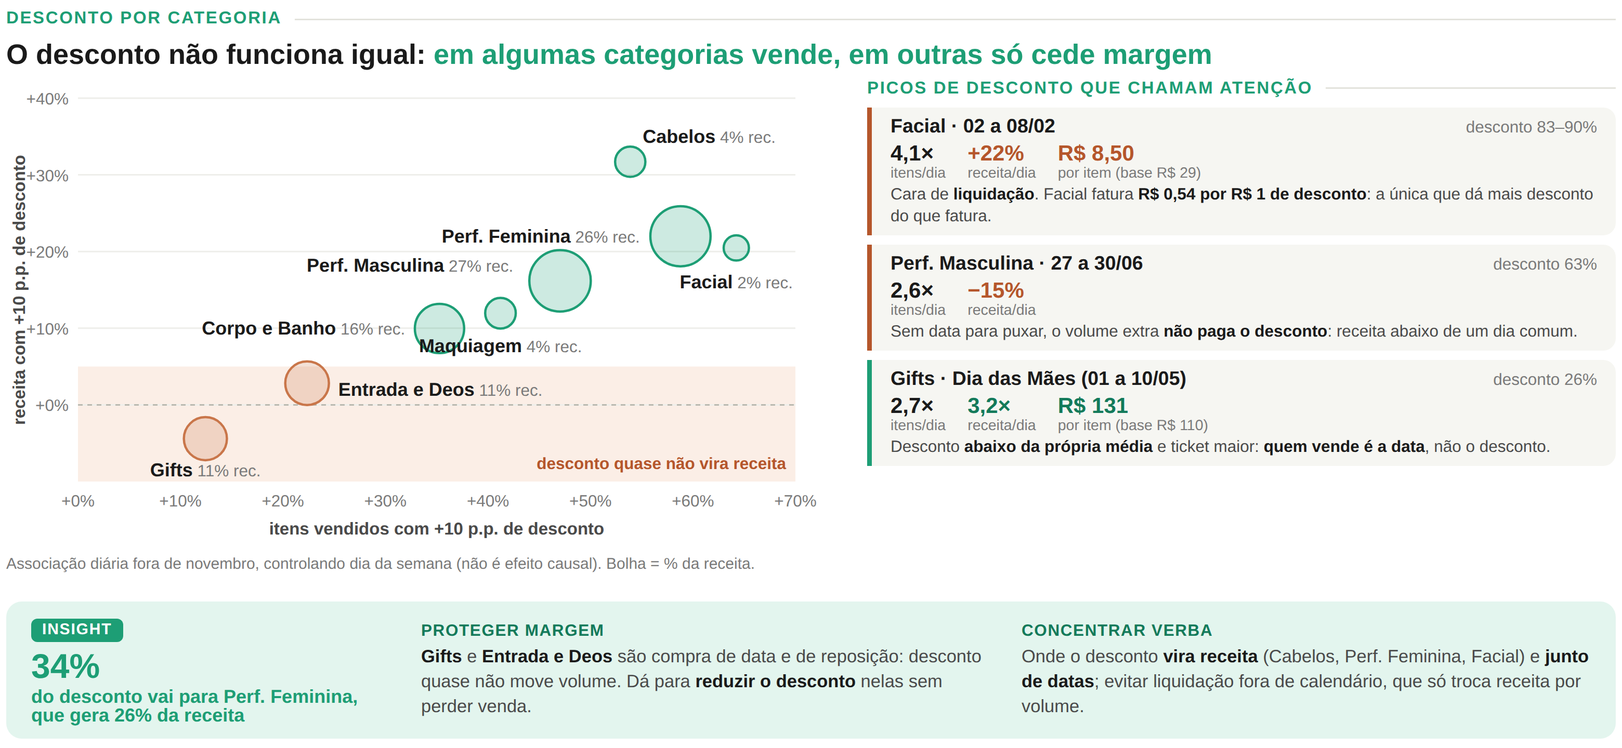
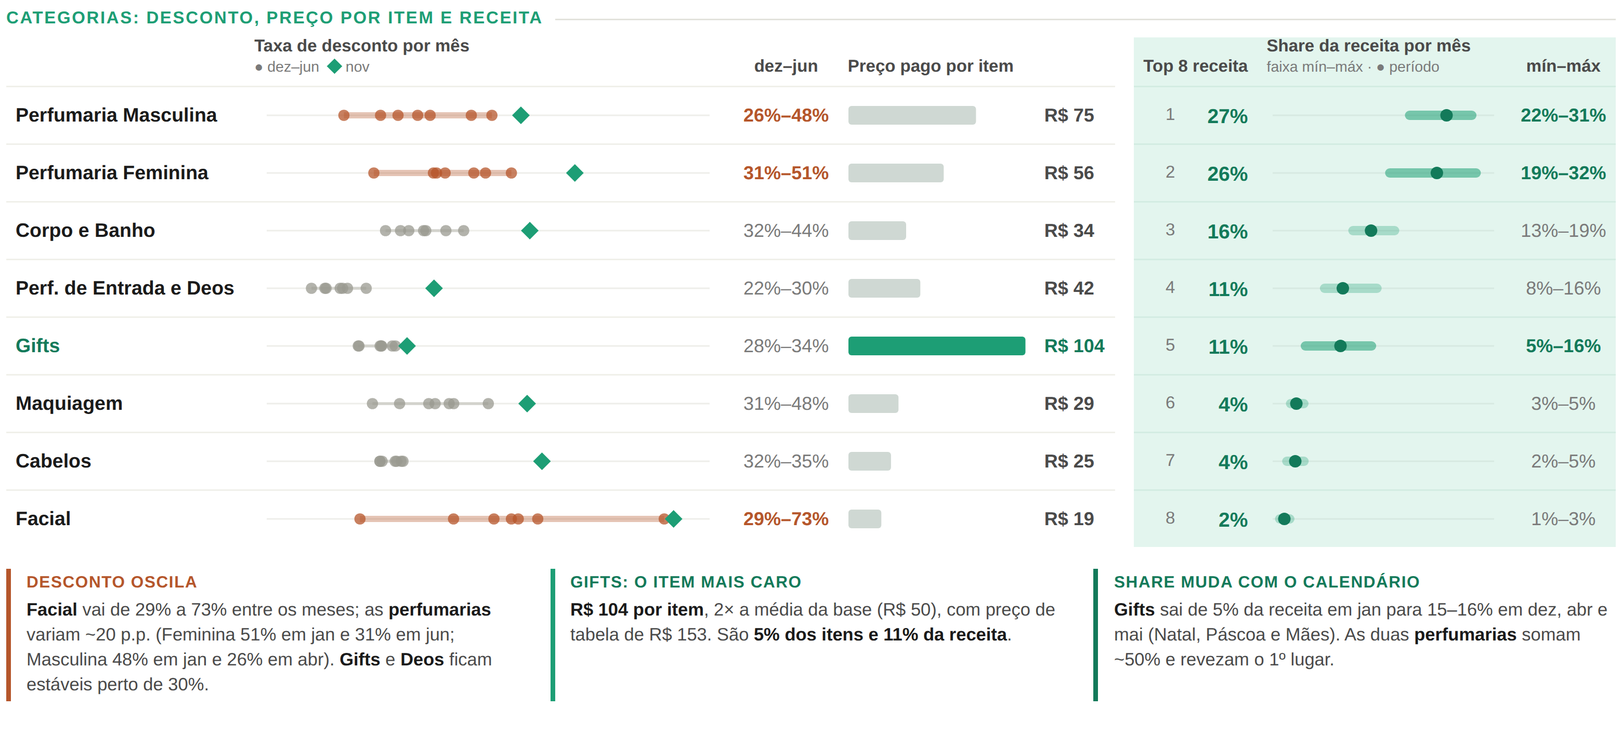
Widget de categorias descritivo: desconto mês a mês, preço por item e share da receita
Claude-Session: https://claude.ai/code/session_01NUJZKTcM8cs9QBTcUeuacF

diff --git a/apresentacao/widgets/04_categorias.html b/apresentacao/widgets/04_categorias.html
@@ -2,7 +2,7 @@
 <html lang="pt-BR">
 <head>
 <meta charset="utf-8">
-<title>Desconto por categoria</title>
+<title>Categorias</title>
 <style>
   :root {
     --verde: #1d9e75; --verde-escuro: #137a5a; --verde-claro: #e3f5ee; --laranja: #b5562b;
@@ -11,82 +11,53 @@
   * { box-sizing: border-box; margin: 0; padding: 0; }
   body { width: 1040px; height: 480px; background: var(--fundo);
          font-family: Arial, "Helvetica Neue", Helvetica, sans-serif; color: var(--tinta); }
-  .widget { display: grid; grid-template-columns: 530px 1fr; grid-template-rows: auto 1fr auto; column-gap: 22px; height: 100%; padding: 6px 4px; }
+  .widget { height: 100%; padding: 6px 4px; display: flex; flex-direction: column; gap: 14px; }
   .rotulo { font-size: 11px; font-weight: 700; letter-spacing: .08em; text-transform: uppercase; color: var(--verde);
             margin-bottom: 6px; display: flex; align-items: center; gap: 8px; }
   .rotulo::after { content: ""; flex: 1; height: 1px; background: var(--linha); }
-  h3 { grid-column: 1 / -1; font-size: 18px; line-height: 1.25; margin-bottom: 4px; }
-  h3 span { color: var(--verde); }
-  .topo { grid-column: 1 / -1; }
-  svg text { font-family: Arial, sans-serif; }
-  .grade { stroke: #eeeeea; } .zero { stroke: #b9b9b0; stroke-dasharray: 3 3; }
-  .eixo { font-size: 10.5px; fill: var(--tinta-3); }
-  .tit-eixo { font-size: 11px; fill: var(--tinta-2); font-weight: 700; }
-  .nome { font-size: 12px; font-weight: 700; fill: var(--tinta); }
-  .sub { font-weight: 400; fill: var(--tinta-3); font-size: 10.5px; }
-  .zona { font-size: 10.5px; fill: var(--laranja); font-weight: 700; }
-  .nota { font-size: 10px; color: var(--tinta-3); margin-top: 2px; line-height: 1.3; }
 
-  .picos { display: flex; flex-direction: column; gap: 6px; }
-  .pico { border-left: 3px solid var(--verde); background: #f6f6f2; border-radius: 0 8px 8px 0; padding: 5px 12px; }
-  .pico.ruim { border-left-color: var(--laranja); }
-  .pico .cab { display: flex; justify-content: space-between; align-items: baseline; font-size: 12.5px; font-weight: 700; }
-  .pico .cab span { font-size: 10.5px; color: var(--tinta-3); font-weight: 400; }
-  .nums { display: flex; gap: 14px; margin: 2px 0 1px; }
-  .num { font-size: 14px; font-weight: 700; color: var(--tinta); }
-  .num small { display: block; font-size: 9.5px; color: var(--tinta-3); font-weight: 400; }
-  .num.bom { color: var(--verde-escuro); } .num.mau { color: var(--laranja); }
-  .pico p { font-size: 10.5px; color: var(--tinta-2); line-height: 1.35; }
-  .pico p b { color: var(--tinta); }
+  .cats { width: 100%; border-collapse: collapse; }
+  .cats th { font-size: 11px; font-weight: 700; color: var(--tinta-2); text-align: center; padding: 0 6px 6px; vertical-align: bottom; white-space: nowrap; }
+  .cats th.esq { text-align: left; }
+  .cats th span { display: block; font-size: 9.5px; font-weight: 400; color: var(--tinta-3); margin-top: 2px; }
+  .losango { display: inline-block; width: 7px; height: 7px; background: var(--verde); transform: rotate(45deg); margin: 0 1px; }
+  .cats td { padding: 5px 6px; border-top: 1px solid #f0f0ea; vertical-align: middle; }
+  .cats td svg { display: block; }
+  .nome { font-size: 12.5px; font-weight: 700; white-space: nowrap; }
+  .num { font-size: 12px; color: var(--tinta-3); text-align: center; white-space: nowrap; }
+  .faixa.forte { color: var(--laranja); font-weight: 700; }
+  .barra { display: flex; align-items: center; gap: 6px; font-size: 12px; color: var(--tinta-2); }
+  tr.gift .nome, tr.gift .barra b { color: var(--verde-escuro); }
+  .sep { width: 10px; border-top: none !important; }
+  .cats th.lado, .cats td.lado { background: var(--verde-claro); }
+  .cats td.lado { border-top: 1px solid #d3ece2; }
+  .rank { font-size: 11px; color: var(--tinta-3); text-align: right; width: 22px; padding-right: 0 !important; }
+  .share { font-size: 13px; font-weight: 700; color: var(--verde-escuro); text-align: right; width: 44px; }
+  .forte-s { color: var(--verde-escuro); font-weight: 700; }
+  .cats tr:first-child th.lado:first-of-type { border-radius: 8px 0 0 0; }
 
-  .insight { grid-column: 1 / -1; background: var(--verde-claro); border-radius: 10px; padding: 8px 16px; margin-top: 6px;
-             display: grid; grid-template-columns: 230px 1fr 1fr; gap: 20px; align-items: center; }
-  .selo { display: inline-block; font-size: 10px; font-weight: 700; letter-spacing: .06em; text-transform: uppercase;
-          color: #fff; background: var(--verde); border-radius: 4px; padding: 2px 7px; margin-bottom: 4px; }
-  .valor-g { font-size: 22px; font-weight: 700; color: var(--verde); line-height: 1.05; }
-  .valor-g small { display: block; font-size: 12px; margin-top: 2px; }
-  .texto { font-size: 11.5px; color: var(--tinta-2); line-height: 1.4; }
-  .texto b { color: var(--tinta); }
-  .texto .tit { display: block; font-size: 10.5px; font-weight: 700; color: var(--verde-escuro); text-transform: uppercase; letter-spacing: .05em; margin-bottom: 1px; }
+  .notas { display: grid; grid-template-columns: 1fr 1fr 1fr; gap: 14px; }
+  .nota { border-left: 3px solid var(--linha); padding: 2px 0 2px 10px; font-size: 11.5px; line-height: 1.4; color: var(--tinta-2); }
+  .nota b { color: var(--tinta); }
+  .nota .tit { display: block; font-size: 10.5px; font-weight: 700; text-transform: uppercase; letter-spacing: .05em; margin-bottom: 2px; }
+  .nota.d { border-color: var(--laranja); } .nota.d .tit { color: var(--laranja); }
+  .nota.p { border-color: var(--verde); } .nota.p .tit, .nota.s .tit { color: var(--verde-escuro); }
+  .nota.s { border-color: var(--verde-escuro); }
 </style>
 </head>
 <body>
 <div class="widget">
-  <div class="topo">
-    <div class="rotulo">Desconto por categoria</div>
-    <h3>O desconto não funciona igual: <span>em algumas categorias vende, em outras só cede margem</span></h3>
-  </div>
-
   <section>
-    <svg width="526" height="298" viewBox="0 0 526 298"><rect x="46" y="184.2" width="460" height="73.8" fill="#fbeee6"/><text x="500" y="250.0" text-anchor="end" class="zona">desconto quase não vira receita</text><line x1="46" x2="506" y1="208.8" y2="208.8" class="grade"/><text x="40" y="212.8" text-anchor="end" class="eixo">+0%</text><line x1="46" x2="506" y1="159.6" y2="159.6" class="grade"/><text x="40" y="163.6" text-anchor="end" class="eixo">+10%</text><line x1="46" x2="506" y1="110.4" y2="110.4" class="grade"/><text x="40" y="114.4" text-anchor="end" class="eixo">+20%</text><line x1="46" x2="506" y1="61.2" y2="61.2" class="grade"/><text x="40" y="65.2" text-anchor="end" class="eixo">+30%</text><line x1="46" x2="506" y1="12.0" y2="12.0" class="grade"/><text x="40" y="16.0" text-anchor="end" class="eixo">+40%</text><text x="46.0" y="274" text-anchor="middle" class="eixo">+0%</text><text x="111.7" y="274" text-anchor="middle" class="eixo">+10%</text><text x="177.4" y="274" text-anchor="middle" class="eixo">+20%</text><text x="243.1" y="274" text-anchor="middle" class="eixo">+30%</text><text x="308.9" y="274" text-anchor="middle" class="eixo">+40%</text><text x="374.6" y="274" text-anchor="middle" class="eixo">+50%</text><text x="440.3" y="274" text-anchor="middle" class="eixo">+60%</text><text x="506.0" y="274" text-anchor="middle" class="eixo">+70%</text><line x1="46" x2="506" y1="208.8" y2="208.8" class="zero"/><circle cx="355.1" cy="129.2" r="19.7" fill="#1d9e75" fill-opacity=".22" stroke="#1d9e75" stroke-width="1.5"/><text x="325.1" y="123.2" text-anchor="end" class="nome">Perf. Masculina<tspan class="sub"> 27% rec.</tspan></text><circle cx="432.3" cy="100.6" r="19.3" fill="#1d9e75" fill-opacity=".22" stroke="#1d9e75" stroke-width="1.5"/><text x="406.3" y="104.6" text-anchor="end" class="nome">Perf. Feminina<tspan class="sub"> 26% rec.</tspan></text><circle cx="277.8" cy="159.8" r="15.8" fill="#1d9e75" fill-opacity=".22" stroke="#1d9e75" stroke-width="1.5"/><text x="255.8" y="163.8" text-anchor="end" class="nome">Corpo e Banho<tspan class="sub"> 16% rec.</tspan></text><circle cx="192.9" cy="194.9" r="14.0" fill="#c9764a" fill-opacity=".22" stroke="#c9764a" stroke-width="1.5"/><text x="212.9" y="202.9" text-anchor="start" class="nome">Entrada e Deos<tspan class="sub"> 11% rec.</tspan></text><circle cx="127.7" cy="230.5" r="13.8" fill="#c9764a" fill-opacity=".22" stroke="#c9764a" stroke-width="1.5"/><text x="127.7" y="254.5" text-anchor="middle" class="nome">Gifts<tspan class="sub"> 11% rec.</tspan></text><circle cx="316.9" cy="150.0" r="9.8" fill="#1d9e75" fill-opacity=".22" stroke="#1d9e75" stroke-width="1.5"/><text x="316.9" y="175.0" text-anchor="middle" class="nome">Maquiagem<tspan class="sub"> 4% rec.</tspan></text><circle cx="400.1" cy="52.8" r="9.7" fill="#1d9e75" fill-opacity=".22" stroke="#1d9e75" stroke-width="1.5"/><text x="408.1" y="40.8" text-anchor="start" class="nome">Cabelos<tspan class="sub"> 4% rec.</tspan></text><circle cx="468.1" cy="108.1" r="8.1" fill="#1d9e75" fill-opacity=".22" stroke="#1d9e75" stroke-width="1.5"/><text x="468.1" y="134.1" text-anchor="middle" class="nome">Facial<tspan class="sub"> 2% rec.</tspan></text><text x="276.0" y="292" text-anchor="middle" class="tit-eixo">itens vendidos com +10 p.p. de desconto</text><text transform="translate(12 135.0) rotate(-90)" text-anchor="middle" class="tit-eixo">receita com +10 p.p. de desconto</text></svg>
-    <div class="nota">Associação diária fora de novembro, controlando dia da semana (não é efeito causal). Bolha = % da receita.</div>
+    <div class="rotulo">Categorias: desconto, preço por item e receita</div>
+    <table class="cats"><tr><th></th><th class="esq">Taxa de desconto por mês<span>● dez–jun &nbsp;<i class="losango"></i> nov</span></th><th>dez–jun</th><th class="esq">Preço pago por item</th><th class="sep"></th><th class="lado" colspan="2">Top 8 receita</th><th class="lado esq">Share da receita por mês<span>faixa mín–máx · ● período</span></th><th class="lado">mín–máx</th></tr><tr class=""><td class="nome">Perfumaria Masculina</td><td><svg width="300" height="26"><line x1="8" x2="292" y1="13" y2="13" stroke="#eeeeea"/><line x1="57.5" x2="152.4" y1="13" y2="13" stroke="#b5562b" stroke-width="4" stroke-opacity=".35"/><circle cx="104.8" cy="13" r="3.6" fill="#b5562b" fill-opacity=".75"/><circle cx="152.4" cy="13" r="3.6" fill="#b5562b" fill-opacity=".75"/><circle cx="81.0" cy="13" r="3.6" fill="#b5562b" fill-opacity=".75"/><circle cx="139.2" cy="13" r="3.6" fill="#b5562b" fill-opacity=".75"/><circle cx="57.5" cy="13" r="3.6" fill="#b5562b" fill-opacity=".75"/><circle cx="112.8" cy="13" r="3.6" fill="#b5562b" fill-opacity=".75"/><circle cx="92.2" cy="13" r="3.6" fill="#b5562b" fill-opacity=".75"/><rect x="167.0" y="9" width="8" height="8" transform="rotate(45 171.0 13)" fill="#1d9e75"/></svg></td><td class="num"><span class="faixa forte">26%–48%</span></td><td class="preco"><div class="barra"><svg width="120" height="18"><rect x="0" y="3" width="81.8" height="12" rx="2" fill="#cfd8d3"/></svg><b>R$ 75</b></div></td><td class="sep"></td><td class="lado rank">1</td><td class="lado share">27%</td><td class="lado"><svg width="150" height="22"><line x1="4" x2="146" y1="11" y2="11" stroke="#d7e9e1"/><line x1="91.8" x2="131.7" y1="11" y2="11" stroke="#1d9e75" stroke-width="6" stroke-linecap="round" stroke-opacity="0.55"/><circle cx="115.5" cy="11" r="4" fill="#137a5a"/></svg></td><td class="lado num forte-s">22%–31%</td></tr><tr class=""><td class="nome">Perfumaria Feminina</td><td><svg width="300" height="26"><line x1="8" x2="292" y1="13" y2="13" stroke="#eeeeea"/><line x1="76.7" x2="164.9" y1="13" y2="13" stroke="#b5562b" stroke-width="4" stroke-opacity=".35"/><circle cx="148.3" cy="13" r="3.6" fill="#b5562b" fill-opacity=".75"/><circle cx="164.9" cy="13" r="3.6" fill="#b5562b" fill-opacity=".75"/><circle cx="114.9" cy="13" r="3.6" fill="#b5562b" fill-opacity=".75"/><circle cx="122.4" cy="13" r="3.6" fill="#b5562b" fill-opacity=".75"/><circle cx="116.9" cy="13" r="3.6" fill="#b5562b" fill-opacity=".75"/><circle cx="140.8" cy="13" r="3.6" fill="#b5562b" fill-opacity=".75"/><circle cx="76.7" cy="13" r="3.6" fill="#b5562b" fill-opacity=".75"/><rect x="201.6" y="9" width="8" height="8" transform="rotate(45 205.6 13)" fill="#1d9e75"/></svg></td><td class="num"><span class="faixa forte">31%–51%</span></td><td class="preco"><div class="barra"><svg width="120" height="18"><rect x="0" y="3" width="61.1" height="12" rx="2" fill="#cfd8d3"/></svg><b>R$ 56</b></div></td><td class="sep"></td><td class="lado rank">2</td><td class="lado share">26%</td><td class="lado"><svg width="150" height="22"><line x1="4" x2="146" y1="11" y2="11" stroke="#d7e9e1"/><line x1="79.1" x2="134.5" y1="11" y2="11" stroke="#1d9e75" stroke-width="6" stroke-linecap="round" stroke-opacity="0.55"/><circle cx="109.3" cy="11" r="4" fill="#137a5a"/></svg></td><td class="lado num forte-s">19%–32%</td></tr><tr class=""><td class="nome">Corpo e Banho</td><td><svg width="300" height="26"><line x1="8" x2="292" y1="13" y2="13" stroke="#eeeeea"/><line x1="84.2" x2="134.3" y1="13" y2="13" stroke="#9a9a90" stroke-width="2" stroke-opacity=".35"/><circle cx="110.0" cy="13" r="3.6" fill="#9a9a90" fill-opacity=".75"/><circle cx="84.2" cy="13" r="3.6" fill="#9a9a90" fill-opacity=".75"/><circle cx="108.6" cy="13" r="3.6" fill="#9a9a90" fill-opacity=".75"/><circle cx="122.9" cy="13" r="3.6" fill="#9a9a90" fill-opacity=".75"/><circle cx="93.8" cy="13" r="3.6" fill="#9a9a90" fill-opacity=".75"/><circle cx="99.1" cy="13" r="3.6" fill="#9a9a90" fill-opacity=".75"/><circle cx="134.3" cy="13" r="3.6" fill="#9a9a90" fill-opacity=".75"/><rect x="172.7" y="9" width="8" height="8" transform="rotate(45 176.7 13)" fill="#1d9e75"/></svg></td><td class="num"><span class="faixa">32%–44%</span></td><td class="preco"><div class="barra"><svg width="120" height="18"><rect x="0" y="3" width="37.0" height="12" rx="2" fill="#cfd8d3"/></svg><b>R$ 34</b></div></td><td class="sep"></td><td class="lado rank">3</td><td class="lado share">16%</td><td class="lado"><svg width="150" height="22"><line x1="4" x2="146" y1="11" y2="11" stroke="#d7e9e1"/><line x1="55.5" x2="82.2" y1="11" y2="11" stroke="#1d9e75" stroke-width="6" stroke-linecap="round" stroke-opacity="0.3"/><circle cx="67.1" cy="11" r="4" fill="#137a5a"/></svg></td><td class="lado num">13%–19%</td></tr><tr class=""><td class="nome">Perf. de Entrada e Deos</td><td><svg width="300" height="26"><line x1="8" x2="292" y1="13" y2="13" stroke="#eeeeea"/><line x1="36.7" x2="71.8" y1="13" y2="13" stroke="#9a9a90" stroke-width="2" stroke-opacity=".35"/><circle cx="36.7" cy="13" r="3.6" fill="#9a9a90" fill-opacity=".75"/><circle cx="55.1" cy="13" r="3.6" fill="#9a9a90" fill-opacity=".75"/><circle cx="45.3" cy="13" r="3.6" fill="#9a9a90" fill-opacity=".75"/><circle cx="56.7" cy="13" r="3.6" fill="#9a9a90" fill-opacity=".75"/><circle cx="59.8" cy="13" r="3.6" fill="#9a9a90" fill-opacity=".75"/><circle cx="71.8" cy="13" r="3.6" fill="#9a9a90" fill-opacity=".75"/><circle cx="46.1" cy="13" r="3.6" fill="#9a9a90" fill-opacity=".75"/><rect x="111.3" y="9" width="8" height="8" transform="rotate(45 115.3 13)" fill="#1d9e75"/></svg></td><td class="num"><span class="faixa">22%–30%</span></td><td class="preco"><div class="barra"><svg width="120" height="18"><rect x="0" y="3" width="46.1" height="12" rx="2" fill="#cfd8d3"/></svg><b>R$ 42</b></div></td><td class="sep"></td><td class="lado rank">4</td><td class="lado share">11%</td><td class="lado"><svg width="150" height="22"><line x1="4" x2="146" y1="11" y2="11" stroke="#d7e9e1"/><line x1="37.3" x2="70.9" y1="11" y2="11" stroke="#1d9e75" stroke-width="6" stroke-linecap="round" stroke-opacity="0.3"/><circle cx="49.0" cy="11" r="4" fill="#137a5a"/></svg></td><td class="lado num">8%–16%</td></tr><tr class="gift"><td class="nome">Gifts</td><td><svg width="300" height="26"><line x1="8" x2="292" y1="13" y2="13" stroke="#eeeeea"/><line x1="66.7" x2="90.5" y1="13" y2="13" stroke="#9a9a90" stroke-width="2" stroke-opacity=".35"/><circle cx="67.2" cy="13" r="3.6" fill="#9a9a90" fill-opacity=".75"/><circle cx="81.7" cy="13" r="3.6" fill="#9a9a90" fill-opacity=".75"/><circle cx="90.5" cy="13" r="3.6" fill="#9a9a90" fill-opacity=".75"/><circle cx="80.7" cy="13" r="3.6" fill="#9a9a90" fill-opacity=".75"/><circle cx="66.7" cy="13" r="3.6" fill="#9a9a90" fill-opacity=".75"/><circle cx="81.4" cy="13" r="3.6" fill="#9a9a90" fill-opacity=".75"/><circle cx="88.5" cy="13" r="3.6" fill="#9a9a90" fill-opacity=".75"/><rect x="94.0" y="9" width="8" height="8" transform="rotate(45 98.0 13)" fill="#1d9e75"/></svg></td><td class="num"><span class="faixa">28%–34%</span></td><td class="preco"><div class="barra"><svg width="120" height="18"><rect x="0" y="3" width="113.5" height="12" rx="2" fill="#1d9e75"/></svg><b>R$ 104</b></div></td><td class="sep"></td><td class="lado rank">5</td><td class="lado share">11%</td><td class="lado"><svg width="150" height="22"><line x1="4" x2="146" y1="11" y2="11" stroke="#d7e9e1"/><line x1="25.0" x2="67.4" y1="11" y2="11" stroke="#1d9e75" stroke-width="6" stroke-linecap="round" stroke-opacity="0.55"/><circle cx="47.5" cy="11" r="4" fill="#137a5a"/></svg></td><td class="lado num forte-s">5%–16%</td></tr><tr class=""><td class="nome">Maquiagem</td><td><svg width="300" height="26"><line x1="8" x2="292" y1="13" y2="13" stroke="#eeeeea"/><line x1="75.8" x2="150.1" y1="13" y2="13" stroke="#9a9a90" stroke-width="2" stroke-opacity=".35"/><circle cx="93.2" cy="13" r="3.6" fill="#9a9a90" fill-opacity=".75"/><circle cx="75.8" cy="13" r="3.6" fill="#9a9a90" fill-opacity=".75"/><circle cx="127.9" cy="13" r="3.6" fill="#9a9a90" fill-opacity=".75"/><circle cx="150.1" cy="13" r="3.6" fill="#9a9a90" fill-opacity=".75"/><circle cx="125.0" cy="13" r="3.6" fill="#9a9a90" fill-opacity=".75"/><circle cx="111.9" cy="13" r="3.6" fill="#9a9a90" fill-opacity=".75"/><circle cx="116.0" cy="13" r="3.6" fill="#9a9a90" fill-opacity=".75"/><rect x="171.0" y="9" width="8" height="8" transform="rotate(45 175.0 13)" fill="#1d9e75"/></svg></td><td class="num"><span class="faixa">31%–48%</span></td><td class="preco"><div class="barra"><svg width="120" height="18"><rect x="0" y="3" width="32.1" height="12" rx="2" fill="#cfd8d3"/></svg><b>R$ 29</b></div></td><td class="sep"></td><td class="lado rank">6</td><td class="lado share">4%</td><td class="lado"><svg width="150" height="22"><line x1="4" x2="146" y1="11" y2="11" stroke="#d7e9e1"/><line x1="15.5" x2="24.0" y1="11" y2="11" stroke="#1d9e75" stroke-width="6" stroke-linecap="round" stroke-opacity="0.3"/><circle cx="19.2" cy="11" r="4" fill="#137a5a"/></svg></td><td class="lado num">3%–5%</td></tr><tr class=""><td class="nome">Cabelos</td><td><svg width="300" height="26"><line x1="8" x2="292" y1="13" y2="13" stroke="#eeeeea"/><line x1="80.6" x2="95.4" y1="13" y2="13" stroke="#9a9a90" stroke-width="2" stroke-opacity=".35"/><circle cx="94.2" cy="13" r="3.6" fill="#9a9a90" fill-opacity=".75"/><circle cx="82.0" cy="13" r="3.6" fill="#9a9a90" fill-opacity=".75"/><circle cx="80.6" cy="13" r="3.6" fill="#9a9a90" fill-opacity=".75"/><circle cx="90.4" cy="13" r="3.6" fill="#9a9a90" fill-opacity=".75"/><circle cx="80.6" cy="13" r="3.6" fill="#9a9a90" fill-opacity=".75"/><circle cx="95.4" cy="13" r="3.6" fill="#9a9a90" fill-opacity=".75"/><circle cx="91.3" cy="13" r="3.6" fill="#9a9a90" fill-opacity=".75"/><rect x="180.5" y="9" width="8" height="8" transform="rotate(45 184.5 13)" fill="#1d9e75"/></svg></td><td class="num"><span class="faixa">32%–35%</span></td><td class="preco"><div class="barra"><svg width="120" height="18"><rect x="0" y="3" width="27.3" height="12" rx="2" fill="#cfd8d3"/></svg><b>R$ 25</b></div></td><td class="sep"></td><td class="lado rank">7</td><td class="lado share">4%</td><td class="lado"><svg width="150" height="22"><line x1="4" x2="146" y1="11" y2="11" stroke="#d7e9e1"/><line x1="13.1" x2="24.1" y1="11" y2="11" stroke="#1d9e75" stroke-width="6" stroke-linecap="round" stroke-opacity="0.3"/><circle cx="18.5" cy="11" r="4" fill="#137a5a"/></svg></td><td class="lado num">2%–5%</td></tr><tr class=""><td class="nome">Facial</td><td><svg width="300" height="26"><line x1="8" x2="292" y1="13" y2="13" stroke="#eeeeea"/><line x1="67.8" x2="262.9" y1="13" y2="13" stroke="#b5562b" stroke-width="4" stroke-opacity=".35"/><circle cx="164.9" cy="13" r="3.6" fill="#b5562b" fill-opacity=".75"/><circle cx="153.7" cy="13" r="3.6" fill="#b5562b" fill-opacity=".75"/><circle cx="262.9" cy="13" r="3.6" fill="#b5562b" fill-opacity=".75"/><circle cx="181.8" cy="13" r="3.6" fill="#b5562b" fill-opacity=".75"/><circle cx="127.8" cy="13" r="3.6" fill="#b5562b" fill-opacity=".75"/><circle cx="169.3" cy="13" r="3.6" fill="#b5562b" fill-opacity=".75"/><circle cx="67.8" cy="13" r="3.6" fill="#b5562b" fill-opacity=".75"/><rect x="264.9" y="9" width="8" height="8" transform="rotate(45 268.9 13)" fill="#1d9e75"/></svg></td><td class="num"><span class="faixa forte">29%–73%</span></td><td class="preco"><div class="barra"><svg width="120" height="18"><rect x="0" y="3" width="21.1" height="12" rx="2" fill="#cfd8d3"/></svg><b>R$ 19</b></div></td><td class="sep"></td><td class="lado rank">8</td><td class="lado share">2%</td><td class="lado"><svg width="150" height="22"><line x1="4" x2="146" y1="11" y2="11" stroke="#d7e9e1"/><line x1="8.5" x2="15.0" y1="11" y2="11" stroke="#1d9e75" stroke-width="6" stroke-linecap="round" stroke-opacity="0.3"/><circle cx="11.5" cy="11" r="4" fill="#137a5a"/></svg></td><td class="lado num">1%–3%</td></tr></table>
   </section>
-
-  <section>
-    <div class="rotulo">Picos de desconto que chamam atenção</div>
-    <div class="picos">
-      <div class="pico ruim">
-        <div class="cab">Facial · 02 a 08/02 <span>desconto 83–90%</span></div>
-        <div class="nums"><div class="num">4,1×<small>itens/dia</small></div><div class="num mau">+22%<small>receita/dia</small></div><div class="num mau">R$ 8,50<small>por item (base R$ 29)</small></div></div>
-        <p>Cara de <b>liquidação</b>. Facial fatura <b>R$ 0,54 por R$ 1 de desconto</b>: a única que dá mais desconto do que fatura.</p>
-      </div>
-      <div class="pico ruim">
-        <div class="cab">Perf. Masculina · 27 a 30/06 <span>desconto 63%</span></div>
-        <div class="nums"><div class="num">2,6×<small>itens/dia</small></div><div class="num mau">−15%<small>receita/dia</small></div></div>
-        <p>Sem data para puxar, o volume extra <b>não paga o desconto</b>: receita abaixo de um dia comum.</p>
-      </div>
-      <div class="pico">
-        <div class="cab">Gifts · Dia das Mães (01 a 10/05) <span>desconto 26%</span></div>
-        <div class="nums"><div class="num">2,7×<small>itens/dia</small></div><div class="num bom">3,2×<small>receita/dia</small></div><div class="num bom">R$ 131<small>por item (base R$ 110)</small></div></div>
-        <p>Desconto <b>abaixo da própria média</b> e ticket maior: <b>quem vende é a data</b>, não o desconto.</p>
-      </div>
-    </div>
-  </section>
-
-  <div class="insight">
-    <div><span class="selo">Insight</span><div class="valor-g">34%<small>do desconto vai para Perf. Feminina, que gera 26% da receita</small></div></div>
-    <div class="texto"><span class="tit">Proteger margem</span><b>Gifts</b> e <b>Entrada e Deos</b> são compra de data e de reposição: desconto quase não move volume. Dá para <b>reduzir o desconto</b> nelas sem perder venda.</div>
-    <div class="texto"><span class="tit">Concentrar verba</span>Onde o desconto <b>vira receita</b> (Cabelos, Perf. Feminina, Facial) e <b>junto de datas</b>; evitar liquidação fora de calendário, que só troca receita por volume.</div>
+  <div class="notas">
+    <div class="nota d"><span class="tit">Desconto oscila</span>
+      <b>Facial</b> vai de 29% a 73% entre os meses; as <b>perfumarias</b> variam ~20 p.p. (Feminina 51% em jan e 31% em jun; Masculina 48% em jan e 26% em abr). <b>Gifts</b> e <b>Deos</b> ficam estáveis perto de 30%.</div>
+    <div class="nota p"><span class="tit">Gifts: o item mais caro</span>
+      <b>R$ 104 por item</b>, 2× a média da base (R$ 50), com preço de tabela de R$ 153. São <b>5% dos itens e 11% da receita</b>.</div>
+    <div class="nota s"><span class="tit">Share muda com o calendário</span>
+      <b>Gifts</b> sai de 5% da receita em jan para 15–16% em dez, abr e mai (Natal, Páscoa e Mães). As duas <b>perfumarias</b> somam ~50% e revezam o 1º lugar.</div>
   </div>
 </div>
 </body>

diff --git a/apresentacao/geradores/04_categorias_modelo.html b/apresentacao/geradores/04_categorias_modelo.html
@@ -2,7 +2,7 @@
 <html lang="pt-BR">
 <head>
 <meta charset="utf-8">
-<title>Desconto por categoria</title>
+<title>Categorias</title>
 <style>
   :root {
     --verde: #1d9e75; --verde-escuro: #137a5a; --verde-claro: #e3f5ee; --laranja: #b5562b;
@@ -11,82 +11,53 @@
   * { box-sizing: border-box; margin: 0; padding: 0; }
   body { width: 1040px; height: 480px; background: var(--fundo);
          font-family: Arial, "Helvetica Neue", Helvetica, sans-serif; color: var(--tinta); }
-  .widget { display: grid; grid-template-columns: 530px 1fr; grid-template-rows: auto 1fr auto; column-gap: 22px; height: 100%; padding: 6px 4px; }
+  .widget { height: 100%; padding: 6px 4px; display: flex; flex-direction: column; gap: 14px; }
   .rotulo { font-size: 11px; font-weight: 700; letter-spacing: .08em; text-transform: uppercase; color: var(--verde);
             margin-bottom: 6px; display: flex; align-items: center; gap: 8px; }
   .rotulo::after { content: ""; flex: 1; height: 1px; background: var(--linha); }
-  h3 { grid-column: 1 / -1; font-size: 18px; line-height: 1.25; margin-bottom: 4px; }
-  h3 span { color: var(--verde); }
-  .topo { grid-column: 1 / -1; }
-  svg text { font-family: Arial, sans-serif; }
-  .grade { stroke: #eeeeea; } .zero { stroke: #b9b9b0; stroke-dasharray: 3 3; }
-  .eixo { font-size: 10.5px; fill: var(--tinta-3); }
-  .tit-eixo { font-size: 11px; fill: var(--tinta-2); font-weight: 700; }
-  .nome { font-size: 12px; font-weight: 700; fill: var(--tinta); }
-  .sub { font-weight: 400; fill: var(--tinta-3); font-size: 10.5px; }
-  .zona { font-size: 10.5px; fill: var(--laranja); font-weight: 700; }
-  .nota { font-size: 10px; color: var(--tinta-3); margin-top: 2px; line-height: 1.3; }
 
-  .picos { display: flex; flex-direction: column; gap: 6px; }
-  .pico { border-left: 3px solid var(--verde); background: #f6f6f2; border-radius: 0 8px 8px 0; padding: 5px 12px; }
-  .pico.ruim { border-left-color: var(--laranja); }
-  .pico .cab { display: flex; justify-content: space-between; align-items: baseline; font-size: 12.5px; font-weight: 700; }
-  .pico .cab span { font-size: 10.5px; color: var(--tinta-3); font-weight: 400; }
-  .nums { display: flex; gap: 14px; margin: 2px 0 1px; }
-  .num { font-size: 14px; font-weight: 700; color: var(--tinta); }
-  .num small { display: block; font-size: 9.5px; color: var(--tinta-3); font-weight: 400; }
-  .num.bom { color: var(--verde-escuro); } .num.mau { color: var(--laranja); }
-  .pico p { font-size: 10.5px; color: var(--tinta-2); line-height: 1.35; }
-  .pico p b { color: var(--tinta); }
+  .cats { width: 100%; border-collapse: collapse; }
+  .cats th { font-size: 11px; font-weight: 700; color: var(--tinta-2); text-align: center; padding: 0 6px 6px; vertical-align: bottom; white-space: nowrap; }
+  .cats th.esq { text-align: left; }
+  .cats th span { display: block; font-size: 9.5px; font-weight: 400; color: var(--tinta-3); margin-top: 2px; }
+  .losango { display: inline-block; width: 7px; height: 7px; background: var(--verde); transform: rotate(45deg); margin: 0 1px; }
+  .cats td { padding: 5px 6px; border-top: 1px solid #f0f0ea; vertical-align: middle; }
+  .cats td svg { display: block; }
+  .nome { font-size: 12.5px; font-weight: 700; white-space: nowrap; }
+  .num { font-size: 12px; color: var(--tinta-3); text-align: center; white-space: nowrap; }
+  .faixa.forte { color: var(--laranja); font-weight: 700; }
+  .barra { display: flex; align-items: center; gap: 6px; font-size: 12px; color: var(--tinta-2); }
+  tr.gift .nome, tr.gift .barra b { color: var(--verde-escuro); }
+  .sep { width: 10px; border-top: none !important; }
+  .cats th.lado, .cats td.lado { background: var(--verde-claro); }
+  .cats td.lado { border-top: 1px solid #d3ece2; }
+  .rank { font-size: 11px; color: var(--tinta-3); text-align: right; width: 22px; padding-right: 0 !important; }
+  .share { font-size: 13px; font-weight: 700; color: var(--verde-escuro); text-align: right; width: 44px; }
+  .forte-s { color: var(--verde-escuro); font-weight: 700; }
+  .cats tr:first-child th.lado:first-of-type { border-radius: 8px 0 0 0; }
 
-  .insight { grid-column: 1 / -1; background: var(--verde-claro); border-radius: 10px; padding: 8px 16px; margin-top: 6px;
-             display: grid; grid-template-columns: 230px 1fr 1fr; gap: 20px; align-items: center; }
-  .selo { display: inline-block; font-size: 10px; font-weight: 700; letter-spacing: .06em; text-transform: uppercase;
-          color: #fff; background: var(--verde); border-radius: 4px; padding: 2px 7px; margin-bottom: 4px; }
-  .valor-g { font-size: 22px; font-weight: 700; color: var(--verde); line-height: 1.05; }
-  .valor-g small { display: block; font-size: 12px; margin-top: 2px; }
-  .texto { font-size: 11.5px; color: var(--tinta-2); line-height: 1.4; }
-  .texto b { color: var(--tinta); }
-  .texto .tit { display: block; font-size: 10.5px; font-weight: 700; color: var(--verde-escuro); text-transform: uppercase; letter-spacing: .05em; margin-bottom: 1px; }
+  .notas { display: grid; grid-template-columns: 1fr 1fr 1fr; gap: 14px; }
+  .nota { border-left: 3px solid var(--linha); padding: 2px 0 2px 10px; font-size: 11.5px; line-height: 1.4; color: var(--tinta-2); }
+  .nota b { color: var(--tinta); }
+  .nota .tit { display: block; font-size: 10.5px; font-weight: 700; text-transform: uppercase; letter-spacing: .05em; margin-bottom: 2px; }
+  .nota.d { border-color: var(--laranja); } .nota.d .tit { color: var(--laranja); }
+  .nota.p { border-color: var(--verde); } .nota.p .tit, .nota.s .tit { color: var(--verde-escuro); }
+  .nota.s { border-color: var(--verde-escuro); }
 </style>
 </head>
 <body>
 <div class="widget">
-  <div class="topo">
-    <div class="rotulo">Desconto por categoria</div>
-    <h3>O desconto não funciona igual: <span>em algumas categorias vende, em outras só cede margem</span></h3>
-  </div>
-
   <section>
-    {{GRAFICO}}
-    <div class="nota">Associação diária fora de novembro, controlando dia da semana (não é efeito causal). Bolha = % da receita.</div>
+    <div class="rotulo">Categorias: desconto, preço por item e receita</div>
+    {{TABELA}}
   </section>
-
-  <section>
-    <div class="rotulo">Picos de desconto que chamam atenção</div>
-    <div class="picos">
-      <div class="pico ruim">
-        <div class="cab">Facial · 02 a 08/02 <span>desconto 83–90%</span></div>
-        <div class="nums"><div class="num">4,1×<small>itens/dia</small></div><div class="num mau">+22%<small>receita/dia</small></div><div class="num mau">R$ 8,50<small>por item (base R$ 29)</small></div></div>
-        <p>Cara de <b>liquidação</b>. Facial fatura <b>R$ 0,54 por R$ 1 de desconto</b>: a única que dá mais desconto do que fatura.</p>
-      </div>
-      <div class="pico ruim">
-        <div class="cab">Perf. Masculina · 27 a 30/06 <span>desconto 63%</span></div>
-        <div class="nums"><div class="num">2,6×<small>itens/dia</small></div><div class="num mau">−15%<small>receita/dia</small></div></div>
-        <p>Sem data para puxar, o volume extra <b>não paga o desconto</b>: receita abaixo de um dia comum.</p>
-      </div>
-      <div class="pico">
-        <div class="cab">Gifts · Dia das Mães (01 a 10/05) <span>desconto 26%</span></div>
-        <div class="nums"><div class="num">2,7×<small>itens/dia</small></div><div class="num bom">3,2×<small>receita/dia</small></div><div class="num bom">R$ 131<small>por item (base R$ 110)</small></div></div>
-        <p>Desconto <b>abaixo da própria média</b> e ticket maior: <b>quem vende é a data</b>, não o desconto.</p>
-      </div>
-    </div>
-  </section>
-
-  <div class="insight">
-    <div><span class="selo">Insight</span><div class="valor-g">34%<small>do desconto vai para Perf. Feminina, que gera 26% da receita</small></div></div>
-    <div class="texto"><span class="tit">Proteger margem</span><b>Gifts</b> e <b>Entrada e Deos</b> são compra de data e de reposição: desconto quase não move volume. Dá para <b>reduzir o desconto</b> nelas sem perder venda.</div>
-    <div class="texto"><span class="tit">Concentrar verba</span>Onde o desconto <b>vira receita</b> (Cabelos, Perf. Feminina, Facial) e <b>junto de datas</b>; evitar liquidação fora de calendário, que só troca receita por volume.</div>
+  <div class="notas">
+    <div class="nota d"><span class="tit">Desconto oscila</span>
+      <b>Facial</b> vai de 29% a 73% entre os meses; as <b>perfumarias</b> variam ~20 p.p. (Feminina 51% em jan e 31% em jun; Masculina 48% em jan e 26% em abr). <b>Gifts</b> e <b>Deos</b> ficam estáveis perto de 30%.</div>
+    <div class="nota p"><span class="tit">Gifts: o item mais caro</span>
+      <b>{{GIFT_PAGO}} por item</b>, 2× a média da base ({{MEDIA_PAGO}}), com preço de tabela de {{GIFT_TABELA}}. São <b>{{GIFT_ITENS}} dos itens e {{GIFT_REC}} da receita</b>.</div>
+    <div class="nota s"><span class="tit">Share muda com o calendário</span>
+      <b>Gifts</b> sai de 5% da receita em jan para 15–16% em dez, abr e mai (Natal, Páscoa e Mães). As duas <b>perfumarias</b> somam ~50% e revezam o 1º lugar.</div>
   </div>
 </div>
 </body>

diff --git a/apresentacao/geradores/04_categorias.py b/apresentacao/geradores/04_categorias.py
@@ -1,55 +1,84 @@
-"""Gera o widget 04_categorias.html: resposta de itens e receita ao desconto, por categoria.
+"""Gera o widget 04_categorias.html: desconto mês a mês, preço por item e participação na receita, por categoria.
 
-Dados em categorias_desconto.csv (consulta diária no BigQuery por categoria, sem categoria inválida):
-- qt_10pp / rec_10pp: variação de itens / receita do dia associada a +10 p.p. de desconto
-  (regressão de log(itens) e log(receita) na taxa de desconto do dia, com dia da semana, fora de novembro);
-- sh_rec / sh_des: participação na receita e no desconto do período.
+Dados mensais em categorias_mensal.csv (consulta no BigQuery por categoria × mês, sem a categoria inválida):
+dias, qt (itens), rec (receita líquida) e des (desconto).
 """
 import sys
 from pathlib import Path
 
 import pandas as pd
 
-cat = pd.read_csv(sys.argv[1]).set_index("cat")
+m = pd.read_csv(sys.argv[1])
 destino = Path(sys.argv[2])
 nomes = {
-    "CABELOS": ("Cabelos", 8, -12, "start"),
-    "CORPO E BANHO": ("Corpo e Banho", -22, 4, "end"),
-    "FACIAL": ("Facial", 0, 26, "middle"),
-    "GIFTS": ("Gifts", 0, 24, "middle"),
-    "MAQUIAGEM": ("Maquiagem", 0, 25, "middle"),
-    "PERF. DE ENTRADA E DEOS": ("Entrada e Deos", 20, 8, "start"),
-    "PERFUMARIA FEMININA": ("Perf. Feminina", -26, 4, "end"),
-    "PERFUMARIA MASCULINA": ("Perf. Masculina", -30, -6, "end"),
+    "PERFUMARIA MASCULINA": "Perfumaria Masculina", "PERFUMARIA FEMININA": "Perfumaria Feminina",
+    "CORPO E BANHO": "Corpo e Banho", "PERF. DE ENTRADA E DEOS": "Perf. de Entrada e Deos",
+    "GIFTS": "Gifts", "MAQUIAGEM": "Maquiagem", "CABELOS": "Cabelos", "FACIAL": "Facial",
 }
+m["tx"] = m["des"] / (m["rec"] + m["des"])
+m["sh"] = m["rec"] / m.groupby("mes")["rec"].transform("sum")
+tot = m.groupby("cat")[["qt", "rec", "des"]].sum()
+tot["sh"] = tot["rec"] / tot["rec"].sum()
+tot["pago"] = tot["rec"] / tot["qt"]
+tot["tabela"] = (tot["rec"] + tot["des"]) / tot["qt"]
+tot = tot.sort_values("rec", ascending=False)
+media_pago = tot["rec"].sum() / tot["qt"].sum()
+pct = lambda v: f"{100 * v:.0f}%"
 
-L, T, W, H = 46, 12, 460, 246
-x0, x1, y0, y1 = 0, 70, -10, 40
-px = lambda v: L + (v - x0) / (x1 - x0) * W
-py = lambda v: T + (y1 - v) / (y1 - y0) * H
-br = lambda v: f"{v:+.0f}%".replace("-", "−")
+# desconto: pontos dos meses dez–jun, novembro à parte; destaque para amplitude ≥ 20 p.p. fora de novembro
+DW, d0, d1 = 300, 0.15, 0.80
+dx = lambda v: 8 + (v - d0) / (d1 - d0) * (DW - 16)
+# share: faixa mín–máx mensal e o total do período
+SW, s1 = 150, 0.35
+sx = lambda v: 4 + v / s1 * (SW - 8)
+# preço pago por item
+PW, pmax = 120, 110
 
-partes = [f'<rect x="{L}" y="{py(5):.1f}" width="{W}" height="{py(y0) - py(5):.1f}" fill="#fbeee6"/>',
-          f'<text x="{L + W - 6}" y="{py(y0) - 8:.1f}" text-anchor="end" class="zona">desconto quase não vira receita</text>']
-for v in range(0, 41, 10):
-    partes.append(f'<line x1="{L}" x2="{L + W}" y1="{py(v):.1f}" y2="{py(v):.1f}" class="grade"/>'
-                  f'<text x="{L - 6}" y="{py(v) + 4:.1f}" text-anchor="end" class="eixo">{br(v)}</text>')
-for v in range(0, 71, 10):
-    partes.append(f'<text x="{px(v):.1f}" y="{T + H + 16}" text-anchor="middle" class="eixo">{br(v)}</text>')
-partes.append(f'<line x1="{L}" x2="{L + W}" y1="{py(0):.1f}" y2="{py(0):.1f}" class="zero"/>')
-for c, r in cat.sort_values("sh_rec", ascending=False).iterrows():
-    x, y = px(100 * r["qt_10pp"]), py(100 * r["rec_10pp"])
-    raio = 4 + 30 * r["sh_rec"] ** 0.5
-    fraca = r["rec_10pp"] < 0.05
-    cor = "#c9764a" if fraca else "#1d9e75"
-    nome, dx, dy, ancora = nomes[c]
-    partes.append(f'<circle cx="{x:.1f}" cy="{y:.1f}" r="{raio:.1f}" fill="{cor}" fill-opacity=".22" stroke="{cor}" stroke-width="1.5"/>'
-                  f'<text x="{x + dx:.1f}" y="{y + dy:.1f}" text-anchor="{ancora}" class="nome">{nome}'
-                  f'<tspan class="sub"> {r["sh_rec"]:.0%}</tspan></text>'.replace("%</tspan>", "% rec.</tspan>"))
-partes.append(f'<text x="{L + W / 2}" y="{T + H + 34}" text-anchor="middle" class="tit-eixo">itens vendidos com +10 p.p. de desconto</text>'
-              f'<text transform="translate(12 {T + H / 2}) rotate(-90)" text-anchor="middle" class="tit-eixo">receita com +10 p.p. de desconto</text>')
-svg = f'<svg width="{L + W + 20}" height="{T + H + 40}" viewBox="0 0 {L + W + 20} {T + H + 40}">{"".join(partes)}</svg>'
+linhas = []
+for i, (c, t) in enumerate(tot.iterrows(), 1):
+    mc = m[m["cat"] == c]
+    fora = mc[mc["mes"] != "2025-11"]
+    nov = mc.loc[mc["mes"] == "2025-11", "tx"].iloc[0]
+    lo, hi = fora["tx"].min(), fora["tx"].max()
+    oscila = hi - lo >= 0.20
+    cor = "#b5562b" if oscila else "#9a9a90"
+    pontos = "".join(f'<circle cx="{dx(v):.1f}" cy="13" r="3.6" fill="{cor}" fill-opacity=".75"/>' for v in fora["tx"])
+    svg_d = (f'<svg width="{DW}" height="26"><line x1="8" x2="{DW - 8}" y1="13" y2="13" stroke="#eeeeea"/>'
+             f'<line x1="{dx(lo):.1f}" x2="{dx(hi):.1f}" y1="13" y2="13" stroke="{cor}" stroke-width="{4 if oscila else 2}" stroke-opacity=".35"/>'
+             f'{pontos}<rect x="{dx(nov) - 4:.1f}" y="9" width="8" height="8" transform="rotate(45 {dx(nov):.1f} 13)" fill="#1d9e75"/></svg>')
+    faixa_d = f'<span class="faixa{" forte" if oscila else ""}">{pct(lo)}–{pct(hi)}</span>'
 
+    gift = c == "GIFTS"
+    svg_p = (f'<svg width="{PW}" height="18"><rect x="0" y="3" width="{t["pago"] / pmax * PW:.1f}" height="12" rx="2" '
+             f'fill="{"#1d9e75" if gift else "#cfd8d3"}"/></svg>')
+
+    slo, shi = mc["sh"].min(), mc["sh"].max()
+    larga = shi - slo >= 0.09
+    svg_s = (f'<svg width="{SW}" height="22"><line x1="4" x2="{SW - 4}" y1="11" y2="11" stroke="#d7e9e1"/>'
+             f'<line x1="{sx(slo):.1f}" x2="{sx(shi):.1f}" y1="11" y2="11" stroke="#1d9e75" stroke-width="6" stroke-linecap="round" stroke-opacity="{.55 if larga else .3}"/>'
+             f'<circle cx="{sx(t["sh"]):.1f}" cy="11" r="4" fill="#137a5a"/></svg>')
+
+    linhas.append(
+        f'<tr class="{"gift" if gift else ""}"><td class="nome">{nomes[c]}</td>'
+        f'<td>{svg_d}</td><td class="num">{faixa_d}</td>'
+        f'<td class="preco"><div class="barra">{svg_p}<b>R$ {t["pago"]:.0f}</b></div></td>'
+        f'<td class="sep"></td><td class="lado rank">{i}</td><td class="lado share">{pct(t["sh"])}</td>'
+        f'<td class="lado">{svg_s}</td><td class="lado num{" forte-s" if larga else ""}">{pct(slo)}–{pct(shi)}</td></tr>')
+
+cab = ('<tr><th></th><th class="esq">Taxa de desconto por mês<span>● dez–jun &nbsp;<i class="losango"></i> nov</span></th>'
+       '<th>dez–jun</th><th class="esq">Preço pago por item</th><th class="sep"></th>'
+       '<th class="lado" colspan="2">Top 8 receita</th><th class="lado esq">Share da receita por mês<span>faixa mín–máx · ● período</span></th>'
+       '<th class="lado">mín–máx</th></tr>')
+tabela = f'<table class="cats">{cab}{"".join(linhas)}</table>'
+
+gifts = tot.loc["GIFTS"]
 modelo = Path(__file__).with_name("04_categorias_modelo.html").read_text(encoding="utf-8")
-destino.write_text(modelo.replace("{{GRAFICO}}", svg), encoding="utf-8")
+html = (modelo.replace("{{TABELA}}", tabela)
+        .replace("{{MEDIA_PAGO}}", f"R$ {media_pago:.0f}")
+        .replace("{{GIFT_PAGO}}", f"R$ {gifts['pago']:.0f}")
+        .replace("{{GIFT_TABELA}}", f"R$ {gifts['tabela']:.0f}")
+        .replace("{{GIFT_ITENS}}", pct(gifts["qt"] / tot["qt"].sum()))
+        .replace("{{GIFT_REC}}", pct(gifts["sh"])))
+destino.write_text(html, encoding="utf-8")
 print("ok", destino)
+print(tot.round(3))
